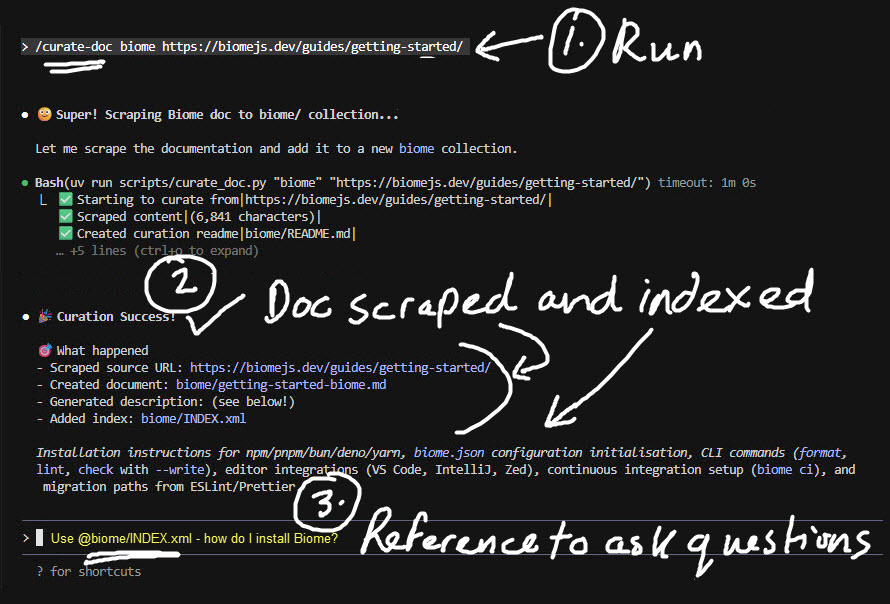
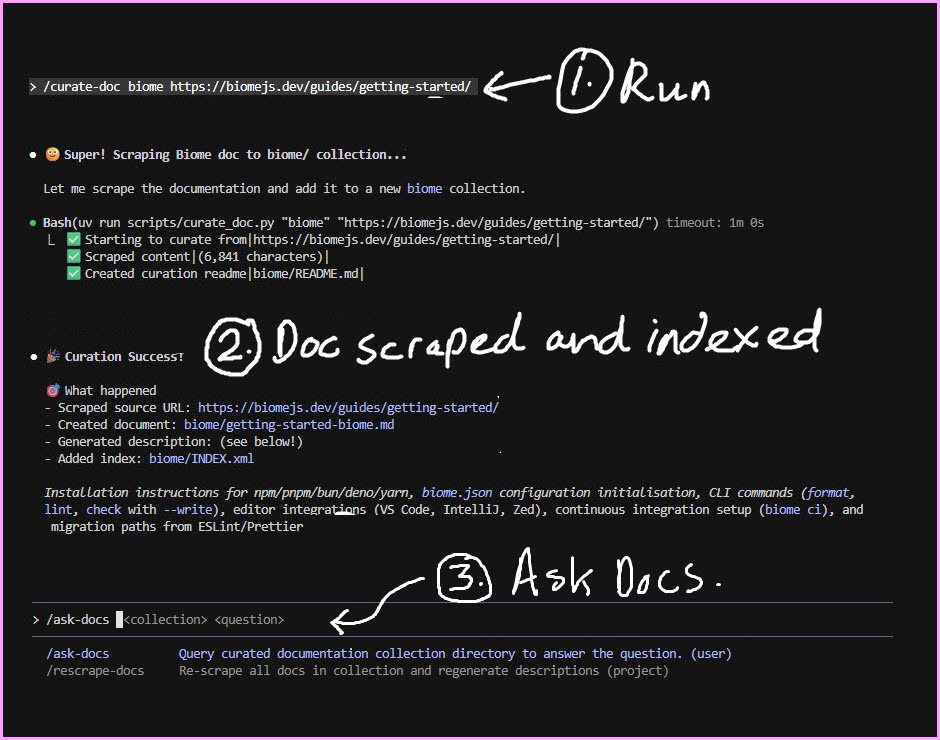
docs: simplify README and add /ask-docs command
README:
- Add /ask-docs to command table for querying collections
- Consolidate usage examples into single workflow
- Use consistent `<collection>` parameter naming
- Move ask-docs.md to .claude/commands/ for direct use
- Update image alt text and screenshot
- Condense notes section

Streamlines documentation to focus on the three-command workflow: curate, rescrape,
and query. Removes manual setup steps for the ask-docs slash command.

🤖 Generated with [Claude Code](https://claude.com/claude-code)

Changed region(s): [[0.0, 0.0, 1.0, 1.0], [0.6978, 0.5364, 0.7281, 0.596]]

diff --git a/README.md b/README.md
@@ -2,7 +2,14 @@
 
 Curate and index documentation from any website into collections like `tailwind/`, `horses/`, etc. Reference collection indexes in your AI chats (e.g. `@tailwind/INDEX.xml what's a utility?`) so that only relevant docs are analysed. Much cleaner than a web-fetch and more focussed than a web-search. Keep your AI context sharp.
 
+<div align="center">
+  <img src="x_docs/images/example_usage.jpg" alt="Terminal showing three-step workflow: (1) Running /curate-doc biome command, (2) Curation success output showing scraped documentation and generated INDEX.xml entry, (3) Use /ask-docs to query docs. Handwritten annotations highlight each step." width="940">
+  <p><em>Complete workflow: curate → auto scrape → "/ask-docs biome Validate my config file please"</em></p>
+</div>
+
 ## 📦 Repo Collections
+
+Available collections in this repo:
 
 | Collection | Collection Index | Description | Scraped | Source |
 |:-----------|:-----------------|:------------|:--------|:-------|
@@ -20,7 +27,7 @@ Curate and index documentation from any website into collections like `tailwind/
 | 📦 [`vitest/`](vitest/) | 📄 [`vitest/INDEX.xml`](vitest/INDEX.xml) | Testing framework | 2025-11-05 | [Official](https://vitest.dev) |
 | 📦 [`zustand/`](zustand/) | 📄 [`zustand/INDEX.xml`](zustand/INDEX.xml) | State management | 2025-11-18 | [Official](https://zustand.docs.pmnd.rs) |
 
-*Curate your own collections. For most Anthropic docs use [this tool](https://github.com/ericbuess/claude-code-docs). [`lefthook/`](lefthook/) is non-standard, files were directly downloaded from GitHub.*
+*Curate your own collections. The [lefthook](lefthook/) collection is non-standard, docs directly downloaded from GitHub. For Anthropic docs use [this tool](https://github.com/ericbuess/claude-code-docs).*
 
 ---
 
@@ -37,79 +44,52 @@ cd docs-for-ai
 # 3. Get free FireCrawl API key
 # Visit: https://www.firecrawl.dev/app/api-keys
 
-# 4. Add to shell profile (.zshrc, .bashrc, .profile)
+# 4. Add to your shell profile
 echo 'export API_KEY_MCP_FIRECRAWL=your-api-key-here' >> ~/.zshrc
-source ~/.zshrc
+source ~/.zshrc  # Use ~/.bashrc if that's your shell
 ```
 
-## 📖 Curate With Slash Commands
+## 📖 Usage via Slash Commands
 
-| Command | Purpose | .md Files | INDEX `<source>` |
+> [!IMPORTANT]
+> Edit the paths in [.claude/commands/ask-docs.md](.claude/commands/ask-docs.md) to match your local setup. To use from anywhere, move it to `~/.claude/commands/`.
+
+| Slash Command | Purpose | .md Files | INDEX `<source>` |
 |:--------|:--------|:----------|:----------|
-| `/curate-doc <directory> <url>` | Add / re-scrape doc | ✅ Write | ✅ Add/replace |
-| `/rescrape-docs <directory>` | Re-scrape all docs | ✅ Write all | ✅ Selective update |
+| `/curate-doc <collection> <url>` | Add new or re-scrape | ✅ Write | ✅ Add/update INDEX.xml |
+| `/rescrape-docs <collection>` | Re-scrape all docs | ✅ Write all | ✅ Selective update INDEX.xml |
+| `/ask-docs <collection> <question>` | Query any collection | Docs analysed | Relevant docs identified |
 
-<div align="center">
-  <img src="x_docs/images/example_usage.jpg" alt="Terminal showing three-step workflow: (1) Running /curate-doc biome command, (2) Curation success output showing scraped documentation and generated INDEX.xml entry, (3) Reference command @biome/INDEX.xml to ask questions. Handwritten annotations highlight each step." width="900">
-  <p><em>Complete workflow: curate → scrape → reference</em></p>
-</div>
+## 💡 Usage Example
 
-## 💡 Usage Examples
-
-### Curate
+Assume tailwind was not already a collection in this repo:
 
 ```bash
-# Curate a new doc from a URL
+# Start a new collection
 /curate-doc tailwind https://tailwindcss.com/docs/customizing-colors
-# → Scrapes page, writes .md file, adds source to INDEX.xml
+# → Creates tailwind/ collection directory, with README.md + INDEX.xml, and first curated doc
 
 # Re-scrape existing doc (refresh content from same URL)
 /curate-doc tailwind https://tailwindcss.com/docs/customizing-colors
 # → Re-scrapes, writes .md file, replaces source in INDEX.xml
 
-# Start a new collection
-/curate-doc reflex https://reflex.dev/docs/getting-started/installation
-# → Creates reflex/ directory, README.md, INDEX.xml, and first curated doc
+# Curate a new doc into collection
+/curate-doc tailwind https://tailwindcss.com/docs/styling-with-utility-classes
+# → Scrapes page into collection, writes .md file, adds source to INDEX.xml
 
-# Re-scrape all docs in collection (monthly maintenance)
+# Re-scrape all docs in collection
 /rescrape-docs tailwind
-# → Re-scrapes all URLs in INDEX.xml, writes all .md files, replaces all sources
+# → Re-scrapes all URLs in INDEX.xml, writes all .md files, updates descriptions for changed content
+
+# ✨ Use the docs
+/ask-docs tailwind Please evaluate my project for correct usage of utility classes?
+# → Searches tailwind/INDEX.xml for relevant docs, analyses these, gives you an answer
 ```
-
-### Use the docs
-
-You can reference as you would any other file, e.g. *"`@/home/mp/projects/docs-for-ai/tailwind/INDEX.xml` what's a utility?"*. But the BEST way is to setup a personal slash command:
-
-```bash
-# 1. Ensure this Claude Code directory exists
-mkdir -p ~/.claude/commands
-
-# 2. Copy slash-command to your personal slashes
-cp x_docs/personal-slash/ask-docs.md ~/.claude/commands/.
-
-# 3. Open file for changing in Cursor IDE ("code" for VSCode)
-cursor ~/.claude/commands/ask-docs.md
-
-# 4. Change "`~/projects/python/docs-for-ai/" to your own
-echo -e "\n🔥 Change paths to yours (in ask-docs.md)" && sed -n '17,19p' ~/.claude/commands/ask-docs.md | nl -v 17
-
-# 5. Start a new Claude
-claude
-```
-
-Then you can just run `/add-docs` from anywhere e.g.
-
-- "`/ask-docs tailwind` what are the responsive sizes?"
-- "`/ask-docs nextjs` how are images now optimised?"
 
 ## 🏗 How This Repo Works
 
 **Workflow:** Python script scrapes URL → writes .md file → creates INDEX.xml entry with `PLACEHOLDER` description → Claude Code generates semantic description.
-
-- `/curate-doc` - Always regenerates description for the doc
-- `/rescrape-docs` - Only regenerates descriptions for files with content changes (ignores whitespace)
-
-**Usage:** Reference `@INDEX.xml [question]` to let Claude Code use descriptions to find relevant docs.
+The `/curate-doc` command always regenerates the description, whereas `/rescrape-docs` only regenerates descriptions for files with content changes.
 
 **Directory Structure:**
 
@@ -137,23 +117,10 @@ uv/
 </docs_index>
 ```
 
-Scripts use FireCrawl Python SDK for scraping. MCP server configured ([.mcp.json](.mcp.json), [.claude/settings.json](.claude/settings.json)) for Claude Code self-healing beyond scripts.
+Scripts use FireCrawl Python SDK. MCP server also configured ([.mcp.json](.mcp.json), [.claude/settings.json](.claude/settings.json)).
 
 ---
 
-## 🎯🔥 Notes to Improve later
+## 👉 Notes to Improve later (NB!)
 
-Instead of crawling, rather go GitHub to find docs there because its cleaner. If in .mdx format then keep it like so (don't convert it breaks)
-
-```markdown
-Your instinct is correct:
-- FireCrawl scraped HTML → configuration-biome.md = good but has scraper artefacts
-- GitHub source .mdx → keep as .mdx = best (canonical, clean)
-- GitHub source .mdx → converted to .md = worst (broken, lossy conversion)
-
-For future collections, you should:
-1. Check if docs are on GitHub
-2. If yes, grab the .mdx or .md files directly
-3. Keep them in their original format
-4. Only use FireCrawl as a fallback when source files aren't available
-```
+Instead of crawling, rather go to GitHub and automate downloading and index creation. Docs are much cleaner than crawling. Keep .mdx files as-is; do not convert to .md. Trade-off: bulk downloads bloat the index; curating individually keeps focus.
